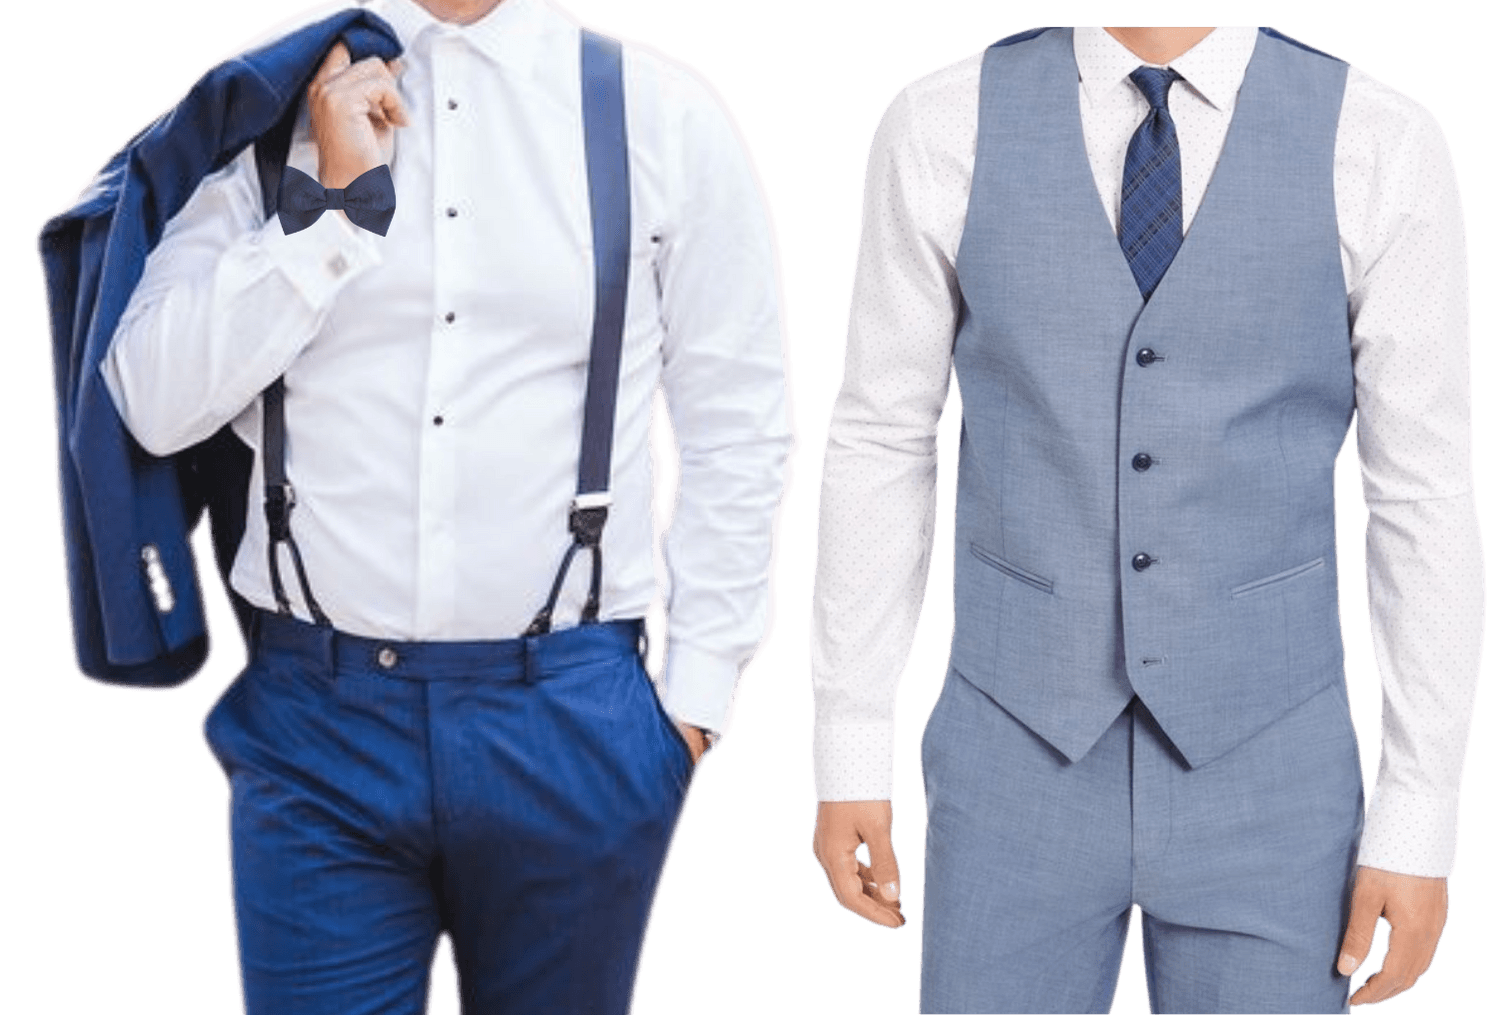
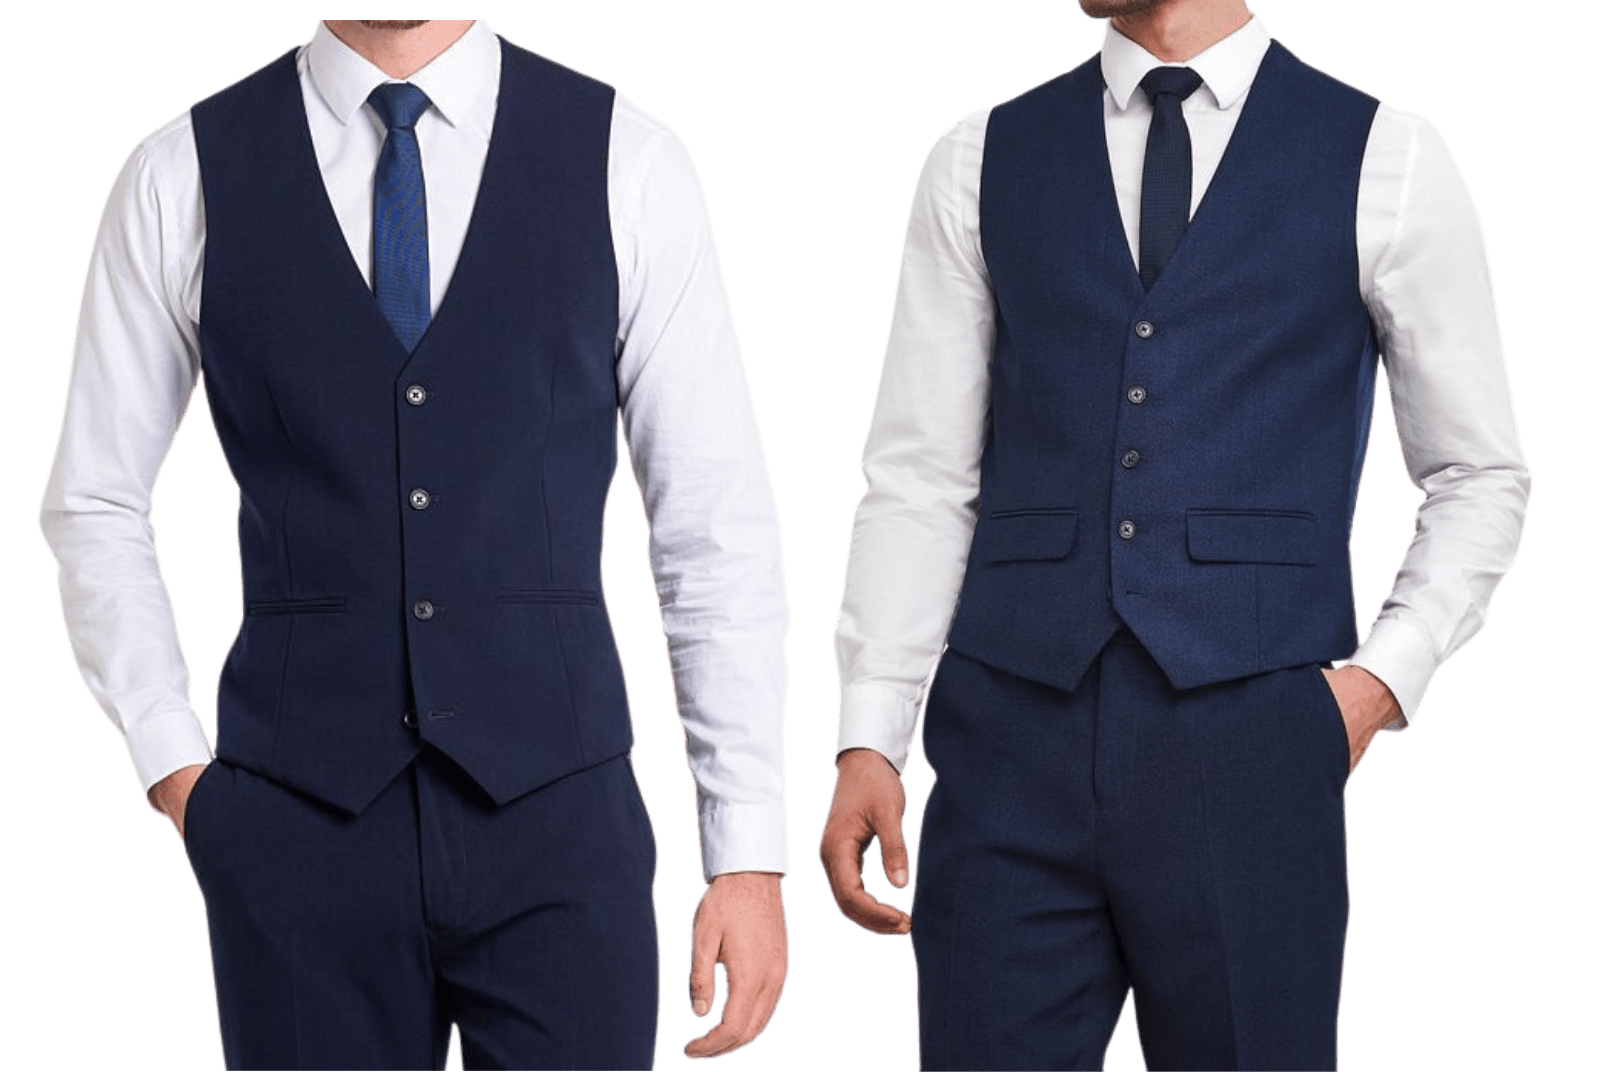
style: update entourage card description and optimize images - Revise the description for the Team Groom attire and replace existing images with optimized versions for better performance.

diff --git a/index.html b/index.html
@@ -147,7 +147,7 @@
           <div class="entourage-card">
             <h3 class="entourage-card__title">Team Groom</h3>
             <div class="entourage-card__image bridesmaids-groomsmen-image"></div>
-            <p class="entourage-card__description">Royal Blue/Light Steel Blue Suit and vest or suit and suspenders.</p>
+            <p class="entourage-card__description">Navy blue vest with neck tie, navy blue pants and white long sleeves underneath</p>
           </div>
         </div>
       </div>
